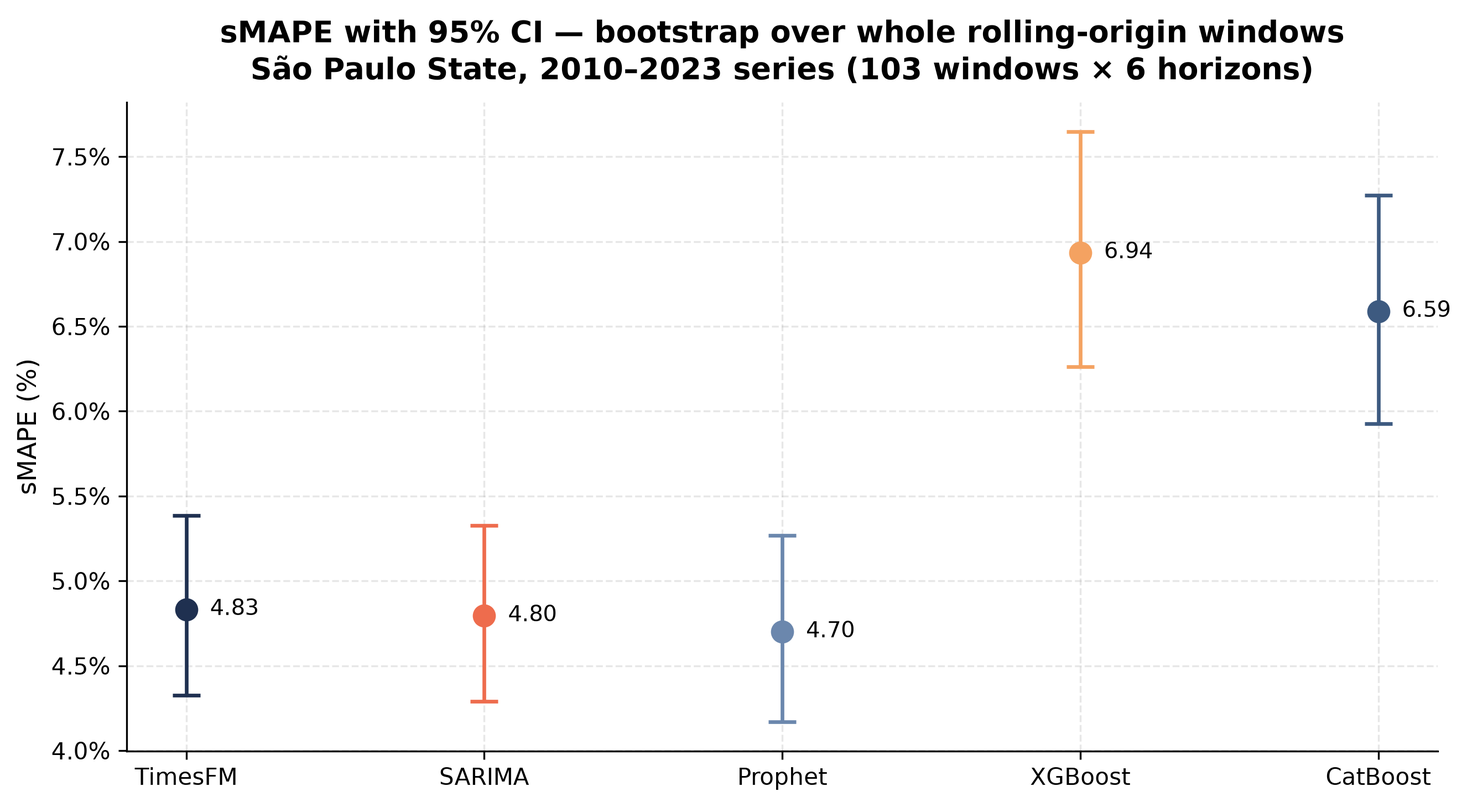
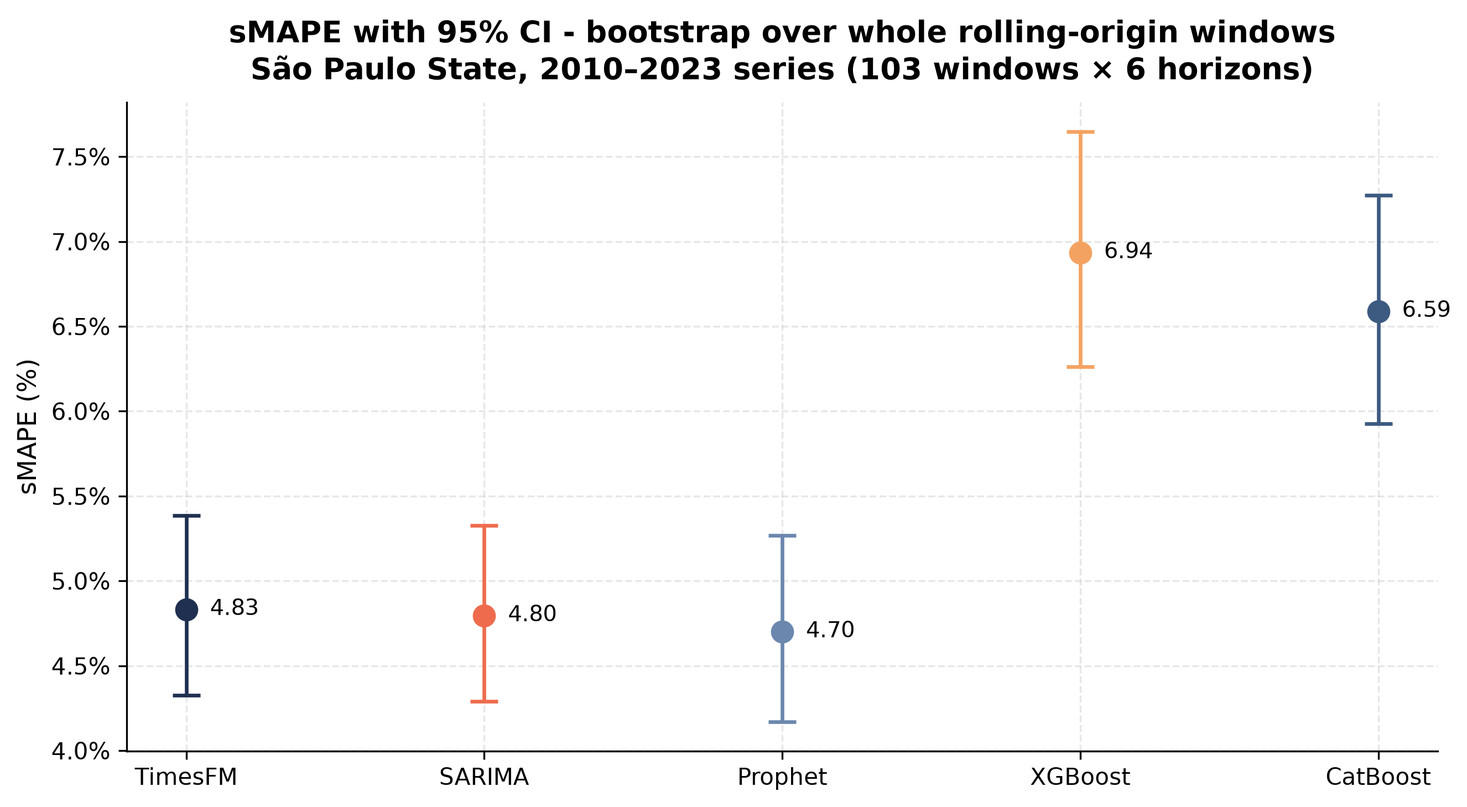
docs: revisao de escrita nos textos da rodada
Remove travessoes, adjetivos avaliativos e formulas de enfase dos docs de
experimento, do task-graph e da pagina do grafo; titulos das figuras
passam a usar hifen. Registro tecnico e direto em todo o texto da rodada.

Changed region(s): [[0.1546, 0.0, 0.9276, 0.0617]]

diff --git a/graphs/task-graph-2010-2023.html b/graphs/task-graph-2010-2023.html
@@ -5,7 +5,7 @@
 <meta name="viewport" content="width=device-width, initial-scale=1.0">
 <title>CPT: o empate sobrevive à série longa</title>
 <style>
-  /* Tema escuro único — identidade visual sobre fundo azul-profundo.
+  /* Tema escuro, identidade visual sobre fundo azul-profundo.
      --bone é o chão da página e --white a superfície dos cards (nomes mantidos,
      valores escuros); --titulo é o tom claro dos títulos. */
   :root {
@@ -87,8 +87,8 @@
 <header>
   <div class="wrap">
     <div class="eyebrow">Cardiovascular Prediction Timeseries · rodada de 17/08/2026 · PR #2 · fork isasaade-23</div>
-    <h1>O empate sobrevive à série longa — <strong>com uma régua duas vezes mais fina</strong></h1>
-    <p class="lead">A rodada de 01/08 mostrou que, com 60 meses, o ranking era ruído e estender a série virou pré-requisito. Esta rodada estendeu: 168 meses reais do SIM (2010–2023), 103 janelas de rolling origin, temperatura como exógena sem vazamento, e os mesmos testes de incerteza. O empate entre Prophet, SARIMA e TimesFM persiste — e agora isso é um resultado, não uma limitação.</p>
+    <h1>O empate persiste com 168 meses, <strong>com intervalos 2,3 vezes menores</strong></h1>
+    <p class="lead">A rodada de 01/08 mediu que, com 60 meses, o ranking estava dentro do ruído, e definiu a extensão da série como pré-requisito. Esta rodada usa 168 meses do SIM (2010 a 2023), 103 janelas de rolling origin, temperatura como exógena sem vazamento e os mesmos testes de incerteza. O empate entre Prophet, SARIMA e TimesFM persiste.</p>
     <div class="coral-tick"></div>
   </div>
 </header>
@@ -97,20 +97,20 @@
 
   <section>
     <div class="sec-label">O resultado principal</div>
-    <h2 class="big">Nenhum vencedor no topo — afirmado com o dobro de precisão</h2>
-    <p class="prosa">Com 618 previsões por modelo (3,3× a rodada anterior), os intervalos caíram de ~2,45 pp para ~1,07 pp de largura. Ainda assim, as três diferenças pareadas do topo contêm zero e nenhum Diebold-Mariano fica abaixo de 0,05. O ranking pontual <strong>inverteu</strong> — o Prophet, último com 60 meses, agora lidera por 0,13 pp. A ordem antiga era ruído mesmo. O que ficou afirmável: boosting sem exógena é pior (p=0,000 em 6/6 horizontes), e a temperatura melhora quem a recebe — pouco, e por ser climatologia.</p>
+    <h2 class="big">Sem vencedor no topo do ranking</h2>
+    <p class="prosa">Cada modelo acumulou 618 previsões, 3,3 vezes o total da rodada anterior, e a largura média do IC95% caiu de 2,45 pp para 1,07 pp. As três diferenças pareadas do topo contêm zero e nenhum teste de Diebold-Mariano fica abaixo de 0,05. O ranking pontual <strong>inverteu</strong>: o Prophet, último com 60 meses, passou a liderar por 0,13 pp. Duas conclusões saem do ruído: boosting sem exógena tem erro maior, com p=0,000 em 6 de 6 horizontes, e a temperatura reduz o erro dos modelos que a recebem em 0,14 a 0,38 pp de sMAPE.</p>
     <div class="numeros">
       <div class="num destaque"><div class="v">0,13 pp</div><div class="k">amplitude entre o melhor e o pior do top-3 (Prophet 4,70 · SARIMA 4,80 · TimesFM 4,83)</div></div>
-      <div class="num destaque"><div class="v">1,07 pp</div><div class="k">largura média do IC95% no top-3 — era 2,45 pp com 60 meses</div></div>
-      <div class="num"><div class="v">1,2–1,7 pp</div><div class="k">o que 9 anos extras de treino compram, nas mesmas datas de teste da rodada anterior</div></div>
-      <div class="num"><div class="v">0,03 pp</div><div class="k">quanto a temperatura futura real ganha sobre a climatologia — o sinal é a sazonalidade</div></div>
+      <div class="num destaque"><div class="v">1,07 pp</div><div class="k">largura média do IC95% no top-3. Com 60 meses: 2,45 pp</div></div>
+      <div class="num"><div class="v">1,2–1,7 pp</div><div class="k">redução de sMAPE ao ampliar o treino de 24–54 para 132–168 meses, nas mesmas datas de teste</div></div>
+      <div class="num"><div class="v">0,03 pp</div><div class="k">ganho do cenário com temperatura futura observada sobre a climatologia</div></div>
     </div>
   </section>
 
   <section>
     <div class="sec-label">O grafo desta rodada</div>
     <h2 class="big">Nó a nó, do dado bruto ao Linear</h2>
-    <p class="prosa">Clique em um nó para ver a métrica de sucesso e o resultado medido. Arestas cheias são dependência; tracejadas são efeitos colaterais auditados — coral degrada uma métrica em tensão, verde melhora.</p>
+    <p class="prosa">Clique em um nó para ver a métrica de sucesso e o resultado medido. Arestas contínuas indicam dependência. Arestas tracejadas indicam efeitos colaterais auditados: coral tensiona uma métrica, verde melhora.</p>
     <div class="card">
       <svg id="grafo" class="chart" viewBox="0 0 940 360" role="img" aria-label="Grafo de dependências da rodada"></svg>
       <div class="legenda">
@@ -135,20 +135,20 @@
     <h2 class="big">Os números, com a incerteza junto</h2>
 
     <div class="card">
-      <div class="chart-title">sMAPE com IC95% — bootstrap de 10.000 réplicas por janela inteira</div>
+      <div class="chart-title">sMAPE com IC95%: bootstrap de 10.000 réplicas por janela inteira</div>
       <div class="chart-sub">103 janelas × 6 horizontes por modelo, série 2010–2023, min_train=60. A linha pontilhada marca o melhor sMAPE da rodada de 60 meses (7,30).</div>
       <svg id="ch-ci" class="chart" viewBox="0 0 900 300" role="img" aria-label="sMAPE com intervalo de confiança por modelo"></svg>
     </div>
 
     <div class="card">
-      <div class="chart-title">Diferenças pareadas — o zero está dentro?</div>
-      <div class="chart-sub">Bootstrap pareado sobre as mesmas janelas. Topo: os três pares do top-3, todos com zero dentro. Base: cada modelo contra si mesmo com temperatura (climatologia) — os três ICs excluem zero, ganho real porém pequeno.</div>
+      <div class="chart-title">Diferenças pareadas: o zero está dentro do intervalo?</div>
+      <div class="chart-sub">Bootstrap pareado sobre as mesmas janelas. Topo: os três pares do top-3, todos com zero dentro. Base: cada modelo contra si mesmo com temperatura por climatologia; os três ICs excluem zero, com ganho de 0,14 a 0,38 pp.</div>
       <svg id="ch-dif" class="chart" viewBox="0 0 900 330" role="img" aria-label="Diferenças pareadas com IC95%"></svg>
     </div>
 
     <div class="card">
       <div class="chart-title">sMAPE por horizonte de previsão</div>
-      <div class="chart-sub">O topo continua trocando de líder por horizonte (SARIMA h1, Prophet h2–h3 e h5–h6, TimesFM nunca) — mais um sinal de empate. Boosting fica acima em todos.</div>
+      <div class="chart-sub">O topo troca de líder por horizonte: SARIMA em h1, Prophet em h2, h3, h5 e h6, TimesFM em nenhum. Boosting fica acima em todos os horizontes.</div>
       <svg id="ch-hor" class="chart" viewBox="0 0 900 320" role="img" aria-label="sMAPE por horizonte"></svg>
     </div>
 
@@ -168,10 +168,10 @@
   <section>
     <div class="sec-label">Decisão humana</div>
     <h2 class="big">Achados que exigem decisão</h2>
-    <h3>A contribuição do paper agora tem forma final possível</h3>
-    <p class="prosa">Com 60 e com 168 meses, medido com IC, o empate do topo persiste e o ranking pontual até inverteu entre rodadas. A redação defensável para README e <code>paper.md</code> (LAB-64) é: <em>"com incerteza medida, foundation model zero-shot e clássicos empatam da série curta à longa; o baseline leve basta"</em>. Os dados desta rodada sustentam essa frase com 2× mais precisão que a anterior.</p>
+    <h3>Redação de README e paper.md (LAB-64)</h3>
+    <p class="prosa">Com 60 e com 168 meses, medido com IC, o empate do topo persiste e o ranking pontual inverteu entre rodadas. A redação que os dados sustentam para README e <code>paper.md</code> (LAB-64) é: <em>"com incerteza medida, foundation model zero-shot e modelos clássicos empatam nas duas extensões de série; o modelo de menor custo computacional atende ao uso"</em>. Esta rodada sustenta a frase com intervalos 2,3 vezes menores que os da anterior.</p>
     <h3>Versionamento da série (LAB-62)</h3>
-    <p class="prosa">A série agregada 2010–2023 está versionada em <code>results/series/</code> (168 linhas <code>date,value</code>, sem microdado) — benchmark reproduzível de clone limpo. Mover para <code>data/processed/</code> com exceção no <code>.gitignore</code> é decisão do dono do repositório.</p>
+    <p class="prosa">A série agregada 2010–2023 está versionada em <code>results/series/</code>, com 168 linhas <code>date,value</code> e sem microdado. O benchmark passa a ser reproduzível a partir de um clone do repositório. Mover a série para <code>data/processed/</code> com exceção no <code>.gitignore</code> é decisão do dono do repositório.</p>
     <h3>Figuras do paper</h3>
     <p class="prosa">As figs 1 e 7 antigas misturam 24 meses sintetizados (2019–2020) rotulados como observação. As substitutas <code>fig*_2010_2023.png</code> usam só dado observado, já na identidade visual da rodada. Adotar é decisão de LAB-64.</p>
   </section>
@@ -180,9 +180,9 @@
     <div class="sec-label">Pendências</div>
     <h2 class="big">O que ficou de fora, e por quê</h2>
     <ul class="lista">
-      <li><strong>Fine-tuning do TimesFM (Prioridade 3):</strong> adiado — sem GPU ≥8GB nesta máquina, um fine-tune por janela (necessário para não vazar futuro) é inviável em CPU. O pré-requisito da série longa agora está cumprido.</li>
-      <li><strong>Política <code>lag12</code>:</strong> implementada e disponível por flag, não rodada — a climatologia já respondeu a pergunta principal e o teto mostrou que não há mais o que extrair da temperatura mensal.</li>
-      <li><strong>Post no Linear (N9):</strong> aguardando aprovação humana antes de publicar — nada existente será editado.</li>
+      <li><strong>Fine-tuning do TimesFM (Prioridade 3):</strong> adiado. Sem GPU com 8GB ou mais nesta máquina, um fine-tune por janela, condição para não usar dados futuros, não termina em tempo de rodada em CPU. O pré-requisito de série com 168 meses está cumprido.</li>
+      <li><strong>Política <code>lag12</code>:</strong> implementada e disponível por flag, não executada. A climatologia respondeu a pergunta desta rodada e o cenário com temperatura futura observada mostrou ganho residual de 0,03 pp.</li>
+      <li><strong>Post no Linear (N9):</strong> aguardando aprovação antes de publicar. Nenhum conteúdo existente será editado.</li>
     </ul>
   </section>
 
@@ -207,7 +207,7 @@ const NOS = [
  {id:'N1', t:'série SIM 2010–2023', m:'168 meses contínuos, validador 9/9, reconciliação com a rodada anterior ≤1%', r:'168 meses sem gap, 9/9 checks, divergência 0,000% nos 36 meses comuns. Série agregada versionada em results/series/ (sem microdado).', s:'done', x:60, y:60},
  {id:'N2', t:'infra anti-vazamento', m:'predictions.csv com window/horizon/train_end; clamp assimétrico removido; run_uncertainty genérico reproduzindo a rodada de 01/08', r:'Reprodução exata dos números de 01/08 (TimesFM 7,30 [6,38, 8,34] etc.). Clamp removido; warning diagnóstico disparou 0 vezes nesta série.', s:'done', x:60, y:180},
  {id:'N3', t:'temperatura INMET A701', m:'tmin mensal 2010–2023 sem buraco, gates de qualidade (≥18h/dia, ≥20 dias/mês)', r:'168 meses só da A701, zero interpolação, zero fallback. tmin médio 16,8°C [11,0–21,2].', s:'done', x:60, y:300},
- {id:'N4', t:'benchmark baseline 5 modelos', m:'103 janelas × 6 = 618 previsões, n idêntico entre modelos', r:'Prophet 4,70 · SARIMA 4,80 · TimesFM 4,83 · CatBoost 6,59 · XGBoost 6,94. Zero falhas de janela, pareamento perfeito.', s:'done', x:300, y:120},
+ {id:'N4', t:'benchmark baseline 5 modelos', m:'103 janelas × 6 = 618 previsões, n idêntico entre modelos', r:'Prophet 4,70 · SARIMA 4,80 · TimesFM 4,83 · CatBoost 6,59 · XGBoost 6,94. Zero falhas de janela; n_predictions igual entre os 5 modelos.', s:'done', x:300, y:120},
  {id:'N5', t:'benchmark com temperatura', m:'políticas climatology (sem vazamento) e observed (teto rotulado), mesmas janelas', r:'sarima_temp 4,66 · catboost_temp 6,33 · xgboost_temp 6,55 (climatologia). Teto ganha só ~0,03 pp sobre a climatologia.', s:'done', x:300, y:250},
  {id:'N6', t:'incerteza e critérios', m:'bootstrap B=10.000 por janela + DM por horizonte, critérios declarados antes do resultado', r:'Top-3: 6/6 ICs pareados com zero dentro, DM ns. Boosting pior com p=0,000. Temperatura: melhoria sugestiva (IC exclui zero, DM só em 1–2/6 horizontes).', s:'done', x:540, y:180},
  {id:'N7', t:'figuras e docs', m:'figuras 100% dado observado, docs no padrão do repo, recálculo independente batendo', r:'6 figuras na identidade visual; 2 docs em docs/experiments/; recálculo de MAE/RMSE/sMAPE bateu nas 11 células.', s:'done', x:740, y:60},

diff --git a/scripts/generate_figures_2010_2023.py b/scripts/generate_figures_2010_2023.py
@@ -1,5 +1,5 @@
 #!/usr/bin/env python3
-"""Figuras da rodada 2010-2023 — dados 100% observados, sem síntese.
+"""Figuras da rodada 2010-2023 - dados 100% observados, sem síntese.
 
 Substitui, para a série estendida, o generate_paper_figures.py (cujas figs 1 e 7
 misturavam 24 meses sintéticos de 2019-2020 com dados reais). Aqui toda observação
@@ -51,7 +51,7 @@ plt.rcParams.update({
     "axes.titlepad":     10,
 })
 
-# Paleta por entidade — identidade visual Isabela Venancio (azul-ardósia + coral).
+# Paleta por entidade - identidade visual Isabela Venancio (azul-ardósia + coral).
 # Cores fixas por modelo; variantes _temp herdam a cor base; âmbar nunca fica
 # adjacente ao coral (par validado para visão normal e daltonismo).
 C = {
@@ -123,8 +123,8 @@ def fig1_time_series(obs, args):
     ax.set_xlabel("Month")
     ax.set_ylabel("Cardiovascular deaths / month")
     ax.set_title(
-        f"Monthly Cardiovascular Mortality — São Paulo State, Brazil "
-        f"({obs['date'].min().strftime('%b %Y')} – {obs['date'].max().strftime('%b %Y')}) — observed SIM data only",
+        f"Monthly Cardiovascular Mortality - São Paulo State, Brazil "
+        f"({obs['date'].min().strftime('%b %Y')} – {obs['date'].max().strftime('%b %Y')}) - observed SIM data only",
         fontweight="bold")
     ax.yaxis.set_major_formatter(mticker.FuncFormatter(lambda x, _: f"{int(x):,}"))
     ax.set_xlim(obs["date"].min(), obs["date"].max())
@@ -173,7 +173,7 @@ def fig2_forecast_comparison(preds, metrics, args):
     n_win = int(preds["window"].max())
     fig.suptitle(
         "Observed vs Predicted Cardiovascular Mortality\n"
-        f"Rolling Origin Backtesting — São Paulo State ({n_win} windows, 2010–2023 series)",
+        f"Rolling Origin Backtesting - São Paulo State ({n_win} windows, 2010–2023 series)",
         fontweight="bold", y=1.005)
     fig.tight_layout()
     path = IMG / f"fig2_forecast_comparison{args.suffix}.png"
@@ -183,7 +183,7 @@ def fig2_forecast_comparison(preds, metrics, args):
 
 
 def fig3_metrics_ci(metrics, unc, preds, args):
-    """sMAPE com IC95% de bootstrap por janela — a barra sem IC induziu o claim antigo."""
+    """sMAPE com IC95% de bootstrap por janela - a barra sem IC induziu o claim antigo."""
     sub = unc[unc["metric"] == "smape"].copy() if unc is not None else None
     models = [m for m in LABELS if m in set(metrics["model"])]
 
@@ -207,7 +207,7 @@ def fig3_metrics_ci(metrics, unc, preds, args):
     ax.set_ylabel("sMAPE (%)")
     n_win = int(preds["window"].max())
     ax.set_title(
-        "sMAPE with 95% CI — bootstrap over whole rolling-origin windows\n"
+        "sMAPE with 95% CI - bootstrap over whole rolling-origin windows\n"
         f"São Paulo State, 2010–2023 series ({n_win} windows × 6 horizons)",
         fontweight="bold")
     ax.yaxis.set_major_formatter(mticker.FuncFormatter(lambda x, _: f"{x:.1f}%"))
@@ -236,7 +236,7 @@ def fig4_smape_by_horizon(preds, args):
     n_h = int(preds["horizon"].max())
     ax.set_xlabel("Forecast Horizon (months ahead)")
     ax.set_ylabel("sMAPE (%)")
-    ax.set_title("Forecast Accuracy by Horizon — São Paulo State (2010–2023 series)",
+    ax.set_title("Forecast Accuracy by Horizon - São Paulo State (2010–2023 series)",
                  fontweight="bold")
     ax.set_xticks(range(1, n_h + 1))
     ax.set_xticklabels([f"h={i}" for i in range(1, n_h + 1)])
@@ -283,7 +283,7 @@ def fig7_seasonal_profile(obs, args):
     y0, y1 = obs["date"].dt.year.min(), obs["date"].dt.year.max()
     ax.set_title(
         f"Average Monthly Cardiovascular Mortality Profile\n"
-        f"São Paulo State, Brazil ({y0}–{y1}, observed SIM data) — error bars = ±1 SD, shading = min–max",
+        f"São Paulo State, Brazil ({y0}–{y1}, observed SIM data) - error bars = ±1 SD, shading = min–max",
         fontweight="bold")
     ax.yaxis.set_major_formatter(mticker.FuncFormatter(lambda x, _: f"{int(x):,}"))
 
@@ -346,7 +346,7 @@ def main():
     metrics = pd.read_csv(BASE / args.metrics_csv)
     preds = pd.read_csv(BASE / args.predictions_csv, parse_dates=["date"])
     if "horizon" not in preds.columns:
-        raise SystemExit("predictions.csv sem coluna horizon — rode o run_benchmark.py atual.")
+        raise SystemExit("predictions.csv sem coluna horizon - rode o run_benchmark.py atual.")
     unc = None
     unc_path = BASE / args.uncertainty_csv
     if unc_path.exists():

diff --git a/task-graph-2010-2023.md b/task-graph-2010-2023.md
@@ -5,9 +5,9 @@
 
 ## Objetivo
 
-A rodada de 01/08 mediu a incerteza e concluiu que, com 60 meses, o ranking entre TimesFM, SARIMA e Prophet está dentro do ruído — e que estender a série era pré-requisito de qualquer comparação. Esta rodada executa as Prioridades 1 e 2 do TODO: série SIM 2010–2023 (168 meses) e temperatura como exógena, com a restrição dura de zero vazamento de dados.
+A rodada de 01/08 mediu a incerteza e concluiu que, com 60 meses, o ranking entre TimesFM, SARIMA e Prophet está dentro do ruído, e que estender a série era pré-requisito de qualquer comparação. Esta rodada executa as Prioridades 1 e 2 do TODO: série SIM 2010–2023 (168 meses) e temperatura como exógena, com a restrição de zero vazamento de dados.
 
-Métricas em tensão: **comparabilidade contra correção de protocolo** (remover o clamp assimétrico muda o protocolo no meio do caminho — mitigado medindo o efeito: zero ocorrências nesta série), **ganho de exógena contra vazamento** (temperatura futura não é conhecida em produção — mitigado com a política climatology, que só usa dados até o fim de cada treino, e o cenário-teto rotulado), e **reprodutibilidade contra política de dados do repo** (a série agregada foi versionada em `results/series/`, onde o `.gitignore` já permite; `data/processed/` segue decisão do dono, LAB-62).
+Métricas em tensão: **comparabilidade contra correção de protocolo** (remover o clamp assimétrico muda o protocolo no meio do caminho; mitigado medindo o efeito: zero ocorrências nesta série), **ganho de exógena contra vazamento** (temperatura futura não é conhecida em produção; mitigado com a política climatology, que só usa dados até o fim de cada treino, e o cenário-teto rotulado), e **reprodutibilidade contra política de dados do repo** (a série agregada foi versionada em `results/series/`, onde o `.gitignore` já permite; `data/processed/` segue decisão do dono, LAB-62).
 
 ## Grafo
 
@@ -47,7 +47,7 @@ graph TD
 | N3 | temperatura mensal como exógena candidata | tmin 2010–2023 sem buraco, gates de qualidade (≥18h/dia, ≥20 dias/mês, ≤2 meses interpolados) | `scripts/fetch_temperature_inmet.py`, `results/series/temperatura_sp_mensal_2010_2023.csv` | 168 meses só da estação A701, zero interpolação, zero fallback. tmin médio 16,8°C [11,0–21,2] | done |
 | N4 | benchmark baseline com 5 modelos | 103 janelas × 6 = 618 previsões, `n_predictions` idêntico entre modelos | `results/benchmark_sim_real_sp_2010_2023_{metrics,predictions}.csv` | Prophet 4,70 · SARIMA 4,80 · TimesFM 4,83 · CatBoost 6,59 · XGBoost 6,94 (sMAPE %). Zero falhas de janela, pareamento perfeito | done |
 | N5 | benchmark com temperatura, políticas com e sem vazamento | mesmas janelas do baseline; climatology monta o futuro só com dados até o fim do treino; observed rotulado como teto | `results/benchmark_exog_temp_{climatology,observed}_{metrics,predictions}.csv` | sarima_temp 4,66 · catboost_temp 6,33 · xgboost_temp 6,55 (climatology). Teto ganha ~0,03 pp sobre a climatologia: o sinal da temperatura mensal é a própria sazonalidade | done |
-| N6 | incerteza e veredicto por critérios pré-declarados | bootstrap B=10.000 por janela inteira + DM por horizonte; critérios escritos antes do resultado | `results/uncertainty_2010_2023_*.csv`, `results/uncertainty_exog_climatology_*.csv` | top-3: 6/6 ICs pareados contêm zero (p 0,17–0,77), DM ns em 6/6 horizontes — **empate**, e o ranking pontual inverteu vs 01/08. Boosting pior com p=0,000 e DM<0,05 em 6/6. Temperatura: ICs excluem zero (−0,14 a −0,38 pp) mas DM em ≤2/6 horizontes — **sugestiva, não confirmada** | done |
+| N6 | incerteza e veredicto por critérios pré-declarados | bootstrap B=10.000 por janela inteira + DM por horizonte; critérios escritos antes do resultado | `results/uncertainty_2010_2023_*.csv`, `results/uncertainty_exog_climatology_*.csv` | top-3: 6/6 ICs pareados contêm zero (p 0,17–0,77), DM ns em 6/6 horizontes; **empate**, e o ranking pontual inverteu vs 01/08. Boosting pior com p=0,000 e DM<0,05 em 6/6. Temperatura: ICs excluem zero (−0,14 a −0,38 pp) mas DM em ≤2/6 horizontes; **sugestiva, não confirmada** | done |
 | N7 | figuras 100% observadas e docs no padrão | recálculo independente de MAE/RMSE/sMAPE batendo em todas as células antes da escrita | `images/fig*_2010_2023.png`, `docs/experiments/benchmark_2010_2023_baseline.md`, `docs/experiments/benchmark_boosting_temperatura.md`, `scripts/generate_figures_2010_2023.py` | 11 de 11 células batendo; 6 figuras geradas só com dado observado, na paleta da identidade visual; nenhuma figura ou doc antigo sobrescrito | done |
 | N8 | versionar via fork + PR sem tocar no que é do dono | PR sobre `fabianofilho/incerteza-benchmark`; README/paper/TODO/imagens antigas intactos | PR #2, commits `8bfa940`→`0adb90c` | PR aberto com 6 commits temáticos; decisões LAB-62 (dados) e LAB-64 (redação) explicitamente deixadas para o dono | done |
 | N9 | levar os números ao Linear, identificado como versão | update de projeto + comentários LAB-62/63, nada existente editado, reversível (post próprio pode ser apagado) | update + comentários no projeto CPT | rascunhos prontos, aguardando aprovação humana | pending |
@@ -56,7 +56,7 @@ graph TD
 
 | aresta | risco | mitigação / aceite |
 |--------|-------|--------------------|
-| N2 -.->\|−protocolo\| N4 | remover o clamp muda o protocolo entre rodadas; números poderiam divergir por artefato de código, não de dado | o clamp era assimétrico (Prophet/TimesFM nunca o tiveram) — mantê-lo contaminava a comparação. Efeito medido: o warning diagnóstico substituto disparou 0 vezes na série 2010–2023; nesta série a remoção é nula na prática |
+| N2 -.->\|−protocolo\| N4 | remover o clamp muda o protocolo entre rodadas; números poderiam divergir por artefato de código, não de dado | o clamp era assimétrico (Prophet/TimesFM nunca o tiveram); mantê-lo contaminava a comparação. Efeito medido: o warning diagnóstico substituto disparou 0 vezes na série 2010–2023; nesta série a remoção é nula na prática |
 | N3 -.->\|+zero vazamento\| N5 | efeito positivo: a política climatology recalcula a média do mês-do-ano por janela, truncada no fim do treino | regra dura no código (`build_exog_frames`): o futuro nunca é montado do CSV completo. O cenário observed existe, deliberado e rotulado, apenas como teto |
 | N1 -.->\|+reprodutibilidade\| N8 | efeito positivo: série agregada versionada torna o benchmark reproduzível de clone limpo | versionada em `results/series/` (168 linhas `date,value`, sem microdado), onde o `.gitignore` já permite; abrir exceção em `data/` continua sendo decisão do dono (LAB-62) |
 
@@ -71,8 +71,8 @@ graph TD
 
 ## Log de replanejamento
 
-- **17/08/2026, durante N2:** os scripts da rodada de 01/08 (`run_uncertainty.py` etc.) não estavam na `main` do GitHub — vivem na branch `fabianofilho/incerteza-benchmark`, não mesclada. A rodada inteira passou a partir dessa branch, e o PR aponta para ela como base.
+- **17/08/2026, durante N2:** os scripts da rodada de 01/08 (`run_uncertainty.py` etc.) não estavam na `main` do GitHub; vivem na branch `fabianofilho/incerteza-benchmark`, não mesclada. A rodada inteira passou a partir dessa branch, e o PR aponta para ela como base.
 - **17/08/2026, durante N2:** skforecast 0.23 renomeou `regressor` para `estimator` no `ForecasterRecursive`. Corrigido passando o regressor como argumento posicional, compatível com as duas APIs. Correção de API, não muda o grafo.
 - **17/08/2026, durante N4:** decisão de `min_train_size=60` (5 anos, ≥4 ciclos sazonais efetivos após a dupla diferenciação do SARIMA), contra os 24 do README/paper e 36 do default antigo do script. A divergência histórica está registrada nos docs; README/paper não foram tocados (LAB-64).
-- **17/08/2026, durante N6:** o recorte comparável (mesmas datas de teste 2021–2023) mostrou que 9 anos extras de treino compram 1,2–1,7 pp de sMAPE — mais que toda a amplitude de 0,38 pp que sustentava o claim antigo. O sMAPE agregado de 4,7–4,8% não é comparável com os 7,3% antigos (2015–2019 foi mais fácil); a comparação limpa é o recorte.
+- **17/08/2026, durante N6:** o recorte comparável (mesmas datas de teste 2021–2023) mostrou que 9 anos extras de treino compram 1,2–1,7 pp de sMAPE; mais que toda a amplitude de 0,38 pp que sustentava o claim antigo. O sMAPE agregado de 4,7–4,8% não é comparável com os 7,3% antigos (2015–2019 foi mais fácil); a comparação limpa é o recorte.
 - **17/08/2026, durante N7:** paleta das figuras trocada para a identidade visual da executora (azul-ardósia + coral + âmbar), com pares adjacentes validados para visão normal e daltonismo; âmbar nunca adjacente ao coral. As figuras antigas do repositório não foram alteradas.

diff --git a/docs/experiments/benchmark_boosting_temperatura.md b/docs/experiments/benchmark_boosting_temperatura.md
@@ -4,19 +4,19 @@ Data de execução: 2026-08-17
 
 ## Dados de temperatura
 
-- Fonte: INMET/BDMEP, zips anuais públicos, estação automática **A701 São Paulo – Mirante de Santana** (fallbacks A755/A711 previstos e **não usados** — a A701 cobriu os 168 meses sem buraco e sem interpolação)
+- Fonte: INMET/BDMEP, zips anuais públicos, estação automática **A701 São Paulo - Mirante de Santana**. Fallbacks A755/A711 previstos e **não usados**: a A701 cobriu os 168 meses sem buraco e sem interpolação
 - Script: `scripts/fetch_temperature_inmet.py`; gates de qualidade: dia com ≥18 horas válidas, mês com ≥20 dias válidos, máximo 2 meses interpoláveis
-- Série: `results/series/temperatura_sp_mensal_2010_2023.csv` (`date,tmin,tmed`); variável usada: `tmin` (média mensal das mínimas diárias — frio eleva PA e agregação plaquetária, hipótese do TODO)
+- Série: `results/series/temperatura_sp_mensal_2010_2023.csv` (`date,tmin,tmed`); variável usada: `tmin`, média mensal das mínimas diárias. Hipótese do TODO: frio eleva PA e agregação plaquetária
 
-## Desenho anti-vazamento (o ponto central da rodada)
+## Desenho anti-vazamento
 
 Para cada janela com treino até `t`, prevendo `t+1..t+6`:
 
 - `exog_train` = temperatura **observada** até `t` (sempre legítimo).
 - `exog_future` por política (`--exog-policy` em `run_benchmark.py`):
-  - **`climatology` (principal)** — média do mês-do-ano calculada exclusivamente sobre `[início, t]`, recalculada a cada janela (expanding). Zero vazamento; é o cenário operacional real: em produção não se conhece a temperatura futura, mas conhece-se a climatologia.
-  - **`lag12`** — temperatura observada em `mês−12`. Sem vazamento; análise de sensibilidade (não rodada aqui, disponível na flag).
-  - **`observed`** — temperatura futura real. **Vazamento deliberado e rotulado**: cenário-teto equivalente a previsão meteorológica perfeita. Reportado só na seção própria abaixo, nunca comparável ao benchmark principal.
+  - **`climatology` (principal)**: média do mês-do-ano calculada exclusivamente sobre `[início, t]`, recalculada a cada janela (expanding). Zero vazamento. Em produção não se conhece a temperatura futura; conhece-se a climatologia.
+  - **`lag12`**: temperatura observada em `mês−12`. Sem vazamento. Análise de sensibilidade, não executada nesta rodada, disponível na flag.
+  - **`observed`**: temperatura futura observada. **Vazamento deliberado e rotulado**: cenário-teto equivalente a previsão meteorológica sem erro. Reportado na seção própria abaixo; não entra na comparação principal.
 - Regra dura no código: para climatology/lag12 o futuro é montado a partir da série **truncada em `t`**, nunca do CSV completo (`build_exog_frames` em `scripts/run_benchmark.py`).
 - Modelos com exógena: SARIMAX (`exog=` nativo), XGBoost/CatBoost (skforecast `fit/predict(exog=)`). Prophet e TimesFM ficam sem exógena por desenho. Sufixo `_temp` no nome evita colisão com os baselines.
 
@@ -28,7 +28,7 @@ Para cada janela com treino até `t`, prevendo `t+1..t+6`:
 
 Melhoria **confirmada** = (1) e (2). Só (1) = **sugestiva**. Nenhum = empate.
 
-## Resultados — política `climatology` (principal)
+## Resultados: política `climatology`
 
 Mesmas 103 janelas do baseline (pareamento perfeito, n=618 por modelo). Arquivos: `results/benchmark_exog_temp_climatology_*.csv`, `results/uncertainty_exog_climatology_*.csv`.
 
@@ -38,11 +38,11 @@ Mesmas 103 janelas do baseline (pareamento perfeito, n=618 por modelo). Arquivos
 | catboost_temp | 6.33 | −0.26 | [−0.452, −0.073] | 0.006 | h6 |
 | xgboost_temp | 6.55 | −0.38 | [−0.543, −0.222] | 0.000 | h1, h6 |
 
-- A temperatura melhora **os três modelos** com IC pareado excluindo zero — mas nenhum passa no critério 2 (≥3 horizontes). Veredito pelos critérios pré-declarados: **melhoria sugestiva, não confirmada**.
-- A melhoria é **dentro do modelo**, não entre famílias: `sarima_temp` (4,66) vs `prophet` sem exógena (4,70) dá diferença 0,04 pp, IC [−0,266, 0,334], p=0,77 — o topo da tabela continua empatado.
+- A temperatura reduz o erro **dos três modelos** com IC pareado excluindo zero. Nenhum passa no critério 2 (≥3 horizontes). Veredito pelos critérios pré-declarados: **melhoria sugestiva, não confirmada**.
+- A melhoria é **dentro do modelo**, não entre famílias: `sarima_temp` (4,66) vs `prophet` sem exógena (4,70) dá diferença 0,04 pp, IC [−0,266, 0,334], p=0,77. O topo da tabela continua empatado.
 - Boosting com temperatura continua atrás do top-3 sem exógena (6,33–6,55 vs 4,70–4,83). A hipótese do TODO ("XGBoost com temperatura pode chegar perto ou superar TimesFM") **não se sustentou** nesta série.
 
-## Cenário-teto — política `observed` (vazamento rotulado)
+## Cenário-teto: política `observed` (vazamento rotulado)
 
 | model | sMAPE teto (%) | sMAPE climatology (%) | ganho extra do teto (pp) |
 |---|---:|---:|---:|
@@ -54,6 +54,6 @@ Conhecer a temperatura futura real acrescenta ~0,03 pp sobre a climatologia: **o
 
 ## Conclusão rápida
 
-1. Temperatura como exógena, sem nenhum vazamento, dá ganho real porém pequeno (0,14–0,38 pp) e abaixo do critério de confirmação.
-2. O teto com vazamento deliberado mostra que não há mais o que extrair da temperatura mensal agregada — o sinal é a climatologia.
-3. Caminhos com mais potencial que refinar a exógena: granularidade semanal (Prioridade 6, onde a anomalia de temperatura semanal pode ter sinal que o mês médio apaga) e fine-tuning do TimesFM (Prioridade 3, agora desbloqueada pela série de 168 meses; adiada nesta rodada por falta de GPU ≥8GB nesta máquina — um fine-tune por janela em CPU é inviável).
+1. Temperatura como exógena, sem vazamento, reduz o erro em 0,14 a 0,38 pp, abaixo do critério de confirmação.
+2. O teto com vazamento deliberado adiciona 0,03 pp sobre a climatologia: o conteúdo preditivo da temperatura mensal agregada é a climatologia.
+3. Próximos caminhos: granularidade semanal (Prioridade 6, onde a anomalia de temperatura semanal pode conter sinal que a média mensal remove) e fine-tuning do TimesFM (Prioridade 3, desbloqueada pela série de 168 meses; adiada nesta rodada por falta de GPU com 8GB ou mais, dado que um fine-tune por janela em CPU não termina em tempo de rodada).

diff --git a/docs/experiments/benchmark_2010_2023_baseline.md b/docs/experiments/benchmark_2010_2023_baseline.md
@@ -7,11 +7,11 @@ Data de execução: 2026-08-17
 - Série: `results/series/serie_eventos_sp_sim_real_2010_2023.csv` (168 meses, SIM/DataSUS SP, CID-10 prefixo I, validador 9/9 em `results/data_reality_report_2010_2023.json`)
 - Frequência: mensal (`MS`)
 - Horizonte: `6`
-- Janela mínima de treino: `60` (5 anos; ≥4 ciclos sazonais efetivos após a dupla diferenciação do SARIMA. Nota: a rodada 2019–2023 usou 24 no README/paper e 36 no default do script — divergência histórica registrada aqui, não corrigida em README/paper por depender da decisão de LAB-64)
+- Janela mínima de treino: `60` (5 anos; ≥4 ciclos sazonais efetivos após a dupla diferenciação do SARIMA. Nota: a rodada 2019–2023 usou 24 no README/paper e 36 no default do script. A divergência fica registrada aqui; README/paper dependem da decisão de LAB-64)
 - Janelas: rolling origin expanding, passo 1, gap 0 → **103 janelas × 6 = 618 previsões por modelo** (3,3× as 186 da rodada anterior)
-- Modelos: `sarima, prophet, timesfm, xgboost, catboost` — sem exógenas
+- Modelos: `sarima, prophet, timesfm, xgboost, catboost`, sem exógenas
 - TimesFM: `google/timesfm-2.5-200m-pytorch`, zero-shot, CPU
-- Mudança de protocolo relevante: o clamp `[0.1·min, 3·max]` que existia só em SARIMA e boosting foi **removido** (era assimétrico — Prophet e TimesFM nunca o tiveram). Nenhuma previsão desta rodada disparou o warning diagnóstico que o substituiu (0 ocorrências no log), então o efeito da remoção nesta série foi nulo.
+- Mudança de protocolo: o clamp `[0.1·min, 3·max]`, presente só em SARIMA e boosting, foi **removido**; Prophet e TimesFM nunca o tiveram, e a assimetria contaminava a comparação. Nenhuma previsão desta rodada disparou o warning diagnóstico que o substituiu (0 ocorrências no log); o efeito da remoção nesta série foi nulo.
 - Reconciliação: os 36 meses 2021–2023 da série nova batem com o `y_true` do benchmark 2019–2023 com divergência 0,000%.
 
 ## Métricas com incerteza
@@ -27,7 +27,7 @@ Arquivos: `results/benchmark_sim_real_sp_2010_2023_{metrics,predictions}.csv`, `
 | xgboost | 526.58 | 704.47 | 6.94 | [6.26, 7.65] | 1.39 |
 
 - Amplitude entre modelos: 2,23 pp; largura média do IC: 1,19 pp; razão 1,88 → ranking informativo **no agregado**, mas dirigido inteiramente pela separação entre boosting e o resto.
-- **Top-3 continua empate técnico**: as três diferenças pareadas entre prophet/sarima/timesfm têm IC contendo zero (p de 0,17 a 0,77) e nenhum Diebold-Mariano abaixo de 0,05 em nenhum dos 6 horizontes. O ranking pontual **inverteu** em relação à rodada anterior (Prophet passou de último a primeiro) — confirmação adicional de que a ordem de 2019–2023 era ruído.
+- **Top-3 segue em empate técnico**: as três diferenças pareadas entre prophet/sarima/timesfm têm IC contendo zero (p de 0,17 a 0,77) e nenhum Diebold-Mariano abaixo de 0,05 nos 6 horizontes. O ranking pontual **inverteu** em relação à rodada anterior (Prophet passou de último a primeiro), o que confirma que a ordem de 2019–2023 estava dentro do ruído.
 - **Boosting sem exógena é detectavelmente pior**: as seis comparações contra o top-3 têm p_bootstrap = 0,000 e DM < 0,05 em todos os 6 horizontes. Com IC medido, a impressão da rodada anterior ("boosting perdeu") agora é afirmável.
 
 ## Recorte comparável com a rodada 2019–2023
@@ -40,13 +40,13 @@ Mesmas datas de teste (2021-01 a 2023-12; 201 previsões/modelo no recorte novo 
 | sarima | 7.45 | 6.18 | 1.27 |
 | timesfm | 7.30 | 6.07 | 1.23 |
 
-Nove anos extras de treino compram 1,2–1,7 pp de sMAPE nas mesmas datas — maior que toda a amplitude entre modelos da rodada anterior (0,38 pp). O sMAPE agregado de 4,7–4,8% não é comparável diretamente com os 7,3% antigos porque 2015–2019 foi mais fácil de prever que 2021–2023.
+Nove anos a mais de treino reduzem o sMAPE em 1,2 a 1,7 pp nas mesmas datas, acima da amplitude entre modelos da rodada anterior (0,38 pp). O sMAPE agregado de 4,7 a 4,8% não é comparável com os 7,3% da rodada anterior porque o período 2015–2019 tem erro menor que 2021–2023.
 
 ## Conclusão rápida
 
 1. A Prioridade 1 do TODO (estender a série) entregou o que prometia: ICs caíram de ~2,45 pp para ~1,05 pp de largura e o erro caiu 1,2–1,7 pp nas mesmas datas de teste.
-2. Entre Prophet, SARIMA e TimesFM continua **não havendo vencedor** — com o dobro de precisão de medida. A escolha entre eles segue operacional (custo, robustez, interpretabilidade), não estatística.
-3. XGBoost/CatBoost com defasagens e sem exógena são inferiores com significância em todos os horizontes — fecha a pergunta aberta em LAB-63 para o caso univariado. Ver `benchmark_boosting_temperatura.md` para o caso com temperatura.
+2. Entre Prophet, SARIMA e TimesFM **não há vencedor**, agora com intervalos 2,3 vezes menores. A escolha entre eles é operacional (custo computacional, manutenção, interpretabilidade), não estatística.
+3. XGBoost/CatBoost com defasagens e sem exógena têm erro maior com significância em todos os horizontes, o que fecha a pergunta de LAB-63 para o caso univariado. Ver `benchmark_boosting_temperatura.md` para o caso com temperatura.
 
 ## Achados que exigem decisão
 
